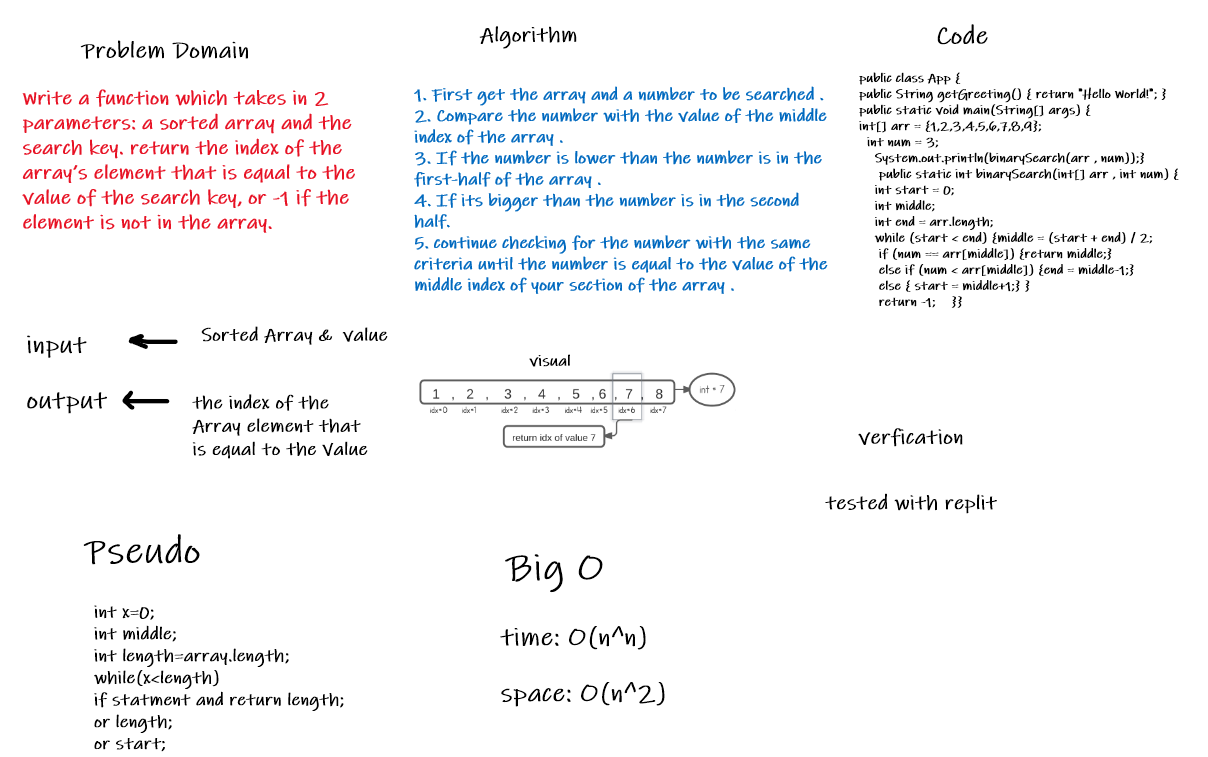
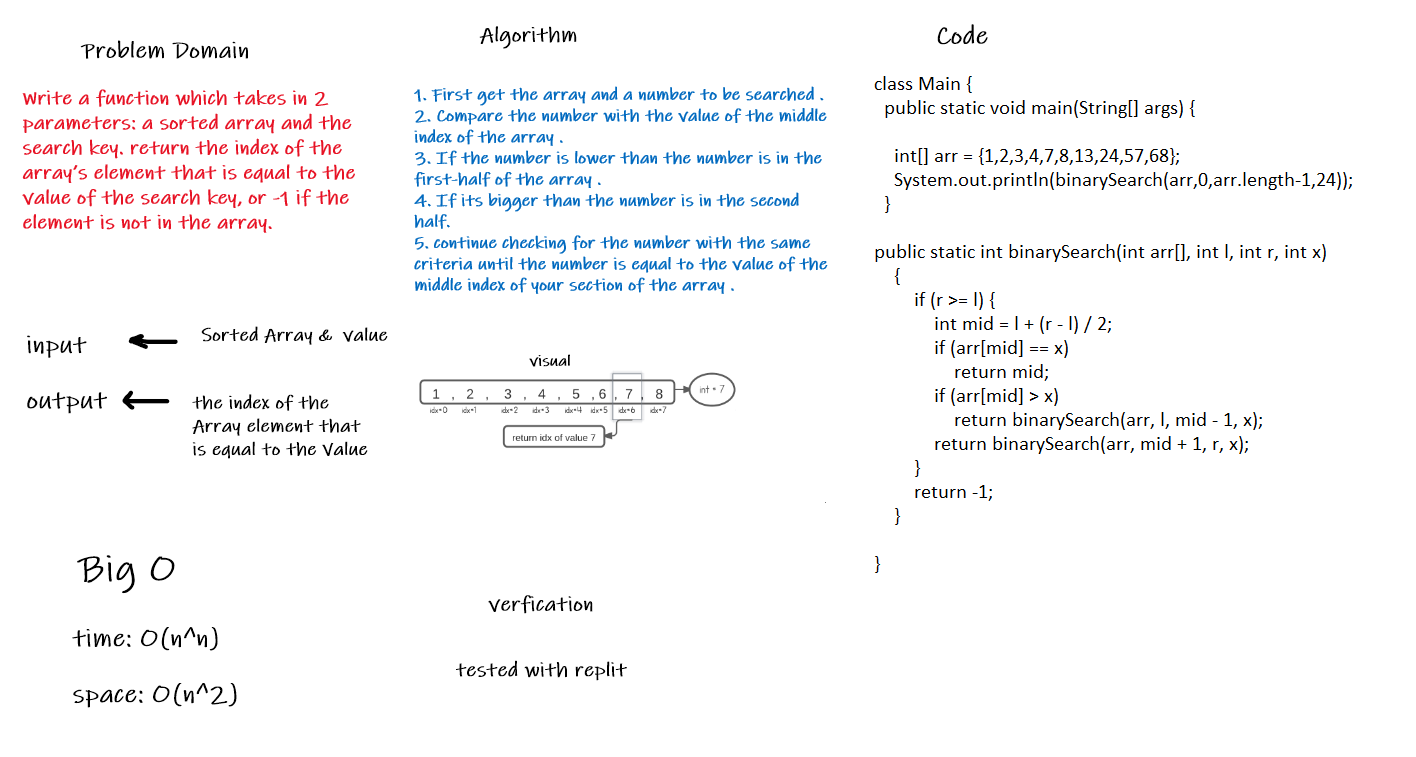
update

diff --git a/README.md b/README.md
@@ -1,18 +1,15 @@
 # Data structures and algorithms java
 
-
 ## Table of Content
 
-| Number | Subject                                                          |
-| ------ | ---------------------------------------------------------------- |
-| 1      | [Array Reverse](./array-reverse/array-reverse.md)                |
-| 2      | [array insert shift](./array-insert-shift/array-insert-shift.md) |
-| 3      |                                                                  |
-| 4      |                                                                  |
-| 5      |                                                                  |
-| 6      |                                                                  |
-| 7      |                                                                  |
-| 8      |                                                                  |
-| 9      |                                                                  |
-
-
+| Number | Subject                                                             |
+| ------ | ------------------------------------------------------------------- |
+| 1      | [Array Reverse](./array-reverse/array-reverse.md)                   |
+| 2      | [array insert shift](./array-insert-shift/array-insert-shift.md)    |
+| 3      | [array-binary-search](./array-binary-search/array-binary-search.md) |
+| 4      |                                                                     |
+| 5      |                                                                     |
+| 6      |                                                                     |
+| 7      |                                                                     |
+| 8      |                                                                     |
+| 9      |                                                                     |

diff --git a/array-binary-search/array-binary-search.md b/array-binary-search/array-binary-search.md
@@ -1,0 +1,29 @@
+# array-binary-search
+
+## To Do
+
+Write a function called BinarySearch which takes in 2 parameters: a sorted array and the search key. Without utilizing any of the built-in methods available to your language, return the index of the array’s element that is equal to the value of the search key, or -1 if the element is not in the array.
+
+## Whiteboard Process
+
+![array-binary-search](./array-binary-search.png)
+
+## the Code :
+
+class Main { public static void main(String[] args) { int[] arr = {1,2,3,4,7,8,13,24,57,68};
+    System.out.println(binarySearch(arr,0,arr.length-1,24));
+}
+
+public static int binarySearch(int arr[], int l, int r, int x)
+{
+if (r >= l) {
+int mid = l + (r - l) / 2;
+if (arr[mid] == x)
+return mid;
+if (arr[mid] > x)
+return binarySearch(arr, l, mid - 1, x);
+return binarySearch(arr, mid + 1, r, x);
+}
+return -1;
+}
+}
